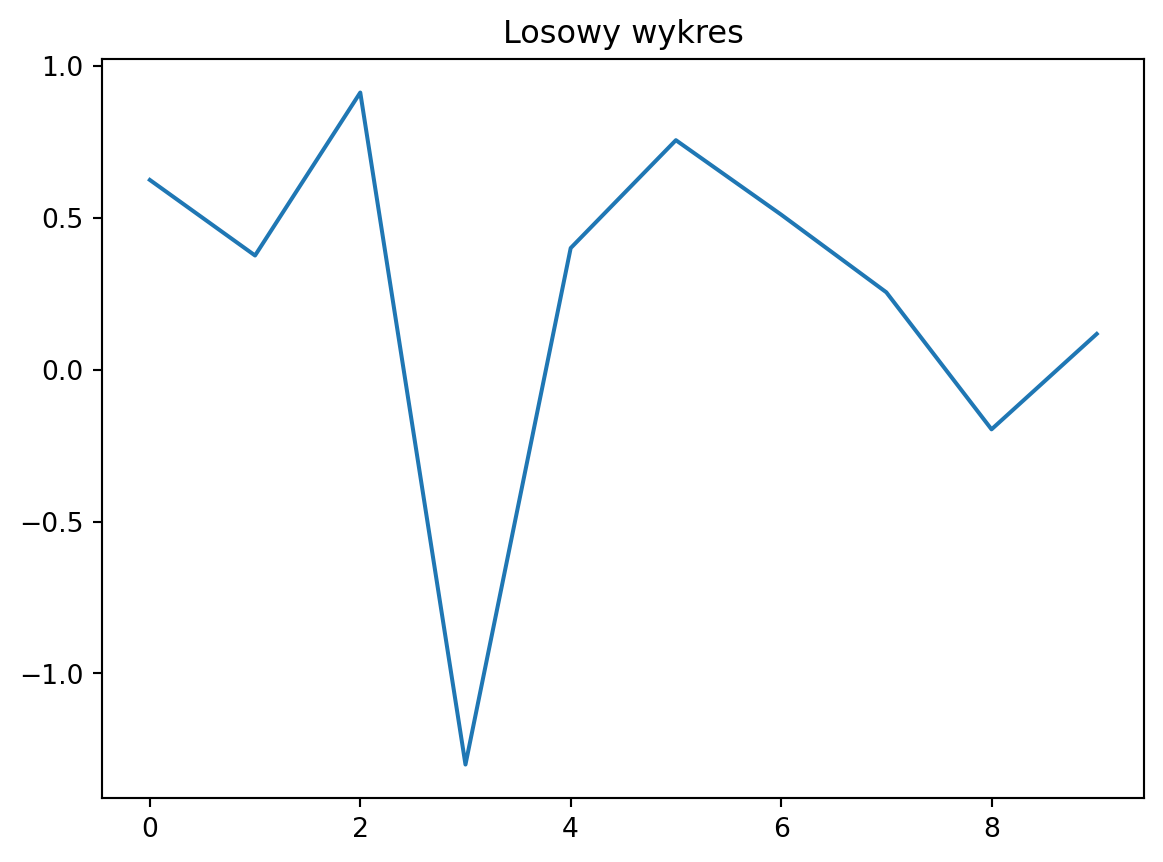
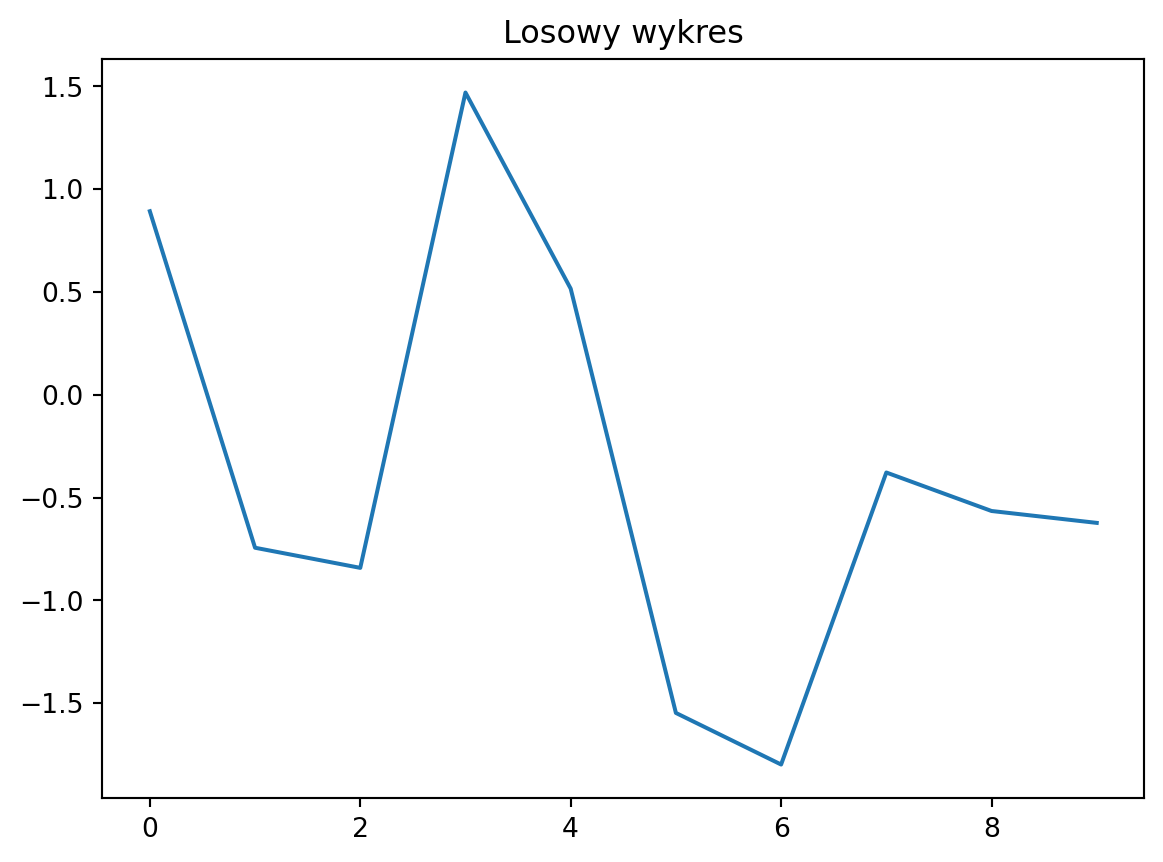
another update

diff --git a/docs/posts/python_w_analizie/python_w_analizie.html b/docs/posts/python_w_analizie/python_w_analizie.html
@@ -9,7 +9,7 @@
 <meta name="author" content="Tomasz Szczerbicki">
 <meta name="dcterms.date" content="2026-01-11">
 
-<title>Analiza danych w Pythonie – Tomasz Szczerbicki - analizy giełdowe</title>
+<title>Analiza danych w Pythonie 2 – Tomasz Szczerbicki - analizy giełdowe</title>
 <style>
 code{white-space: pre-wrap;}
 span.smallcaps{font-variant: small-caps;}
@@ -21,41 +21,6 @@ ul.task-list li input[type="checkbox"] {
   width: 0.8em;
   margin: 0 0.8em 0.2em -1em; /* quarto-specific, see https://github.com/quarto-dev/quarto-cli/issues/4556 */ 
   vertical-align: middle;
-}
-/* CSS for syntax highlighting */
-html { -webkit-text-size-adjust: 100%; }
-pre > code.sourceCode { white-space: pre; position: relative; }
-pre > code.sourceCode > span { display: inline-block; line-height: 1.25; }
-pre > code.sourceCode > span:empty { height: 1.2em; }
-.sourceCode { overflow: visible; }
-code.sourceCode > span { color: inherit; text-decoration: inherit; }
-div.sourceCode { margin: 1em 0; }
-pre.sourceCode { margin: 0; }
-@media screen {
-div.sourceCode { overflow: auto; }
-}
-@media print {
-pre > code.sourceCode { white-space: pre-wrap; }
-pre > code.sourceCode > span { text-indent: -5em; padding-left: 5em; }
-}
-pre.numberSource code
-  { counter-reset: source-line 0; }
-pre.numberSource code > span
-  { position: relative; left: -4em; counter-increment: source-line; }
-pre.numberSource code > span > a:first-child::before
-  { content: counter(source-line);
-    position: relative; left: -1em; text-align: right; vertical-align: baseline;
-    border: none; display: inline-block;
-    -webkit-touch-callout: none; -webkit-user-select: none;
-    -khtml-user-select: none; -moz-user-select: none;
-    -ms-user-select: none; user-select: none;
-    padding: 0 4px; width: 4em;
-  }
-pre.numberSource { margin-left: 3em;  padding-left: 4px; }
-div.sourceCode
-  {   }
-@media screen {
-pre > code.sourceCode > span > a:first-child::before { text-decoration: underline; }
 }
 </style>
 
@@ -166,7 +131,7 @@ pre > code.sourceCode > span > a:first-child::before { text-decoration: underlin
 <header id="title-block-header" class="quarto-title-block default page-columns page-full">
   <div class="quarto-title-banner page-columns page-full">
     <div class="quarto-title column-body">
-      <h1 class="title">Analiza danych w Pythonie</h1>
+      <h1 class="title">Analiza danych w Pythonie 2</h1>
                                 <div class="quarto-categories">
                 <div class="quarto-category">Python</div>
                 <div class="quarto-category">Data Science</div>
@@ -208,17 +173,8 @@ pre > code.sourceCode > span > a:first-child::before { text-decoration: underlin
 
 <section id="wprowadzenie" class="level2">
 <h2 class="anchored" data-anchor-id="wprowadzenie">Wprowadzenie</h2>
-<p>W tym poście pokażę, jak wygenerować dane w Pythonie i automatycznie przedstawić je na wykresie.</p>
-<div id="fb5d4cc7" class="cell" data-execution_count="1">
-<div class="code-copy-outer-scaffold"><div class="sourceCode cell-code" id="cb1"><pre class="sourceCode python code-with-copy"><code class="sourceCode python"><span id="cb1-1"><a href="#cb1-1" aria-hidden="true" tabindex="-1"></a><span class="im">import</span> pandas <span class="im">as</span> pd</span>
-<span id="cb1-2"><a href="#cb1-2" aria-hidden="true" tabindex="-1"></a><span class="im">import</span> numpy <span class="im">as</span> np</span>
-<span id="cb1-3"><a href="#cb1-3" aria-hidden="true" tabindex="-1"></a></span>
-<span id="cb1-4"><a href="#cb1-4" aria-hidden="true" tabindex="-1"></a>df <span class="op">=</span> pd.DataFrame({</span>
-<span id="cb1-5"><a href="#cb1-5" aria-hidden="true" tabindex="-1"></a>    <span class="st">"x"</span>: np.arange(<span class="dv">10</span>),</span>
-<span id="cb1-6"><a href="#cb1-6" aria-hidden="true" tabindex="-1"></a>    <span class="st">"y"</span>: np.random.randn(<span class="dv">10</span>)</span>
-<span id="cb1-7"><a href="#cb1-7" aria-hidden="true" tabindex="-1"></a>})</span>
-<span id="cb1-8"><a href="#cb1-8" aria-hidden="true" tabindex="-1"></a></span>
-<span id="cb1-9"><a href="#cb1-9" aria-hidden="true" tabindex="-1"></a>df</span></code></pre></div><button title="Copy to Clipboard" class="code-copy-button"><i class="bi"></i></button></div>
+<p>W tym poście pokażę, jak wygenerować dane w Pythonie i automatycznie przedstawić je na wykresie. Na koniec wygeneruję kilka standardowych kodów.</p>
+<div id="0da91583" class="cell" data-execution_count="1">
 <div class="cell-output cell-output-display" data-execution_count="1">
 <div>
 
@@ -235,52 +191,52 @@ pre > code.sourceCode > span > a:first-child::before { text-decoration: underlin
 <tr class="odd">
 <th data-quarto-table-cell-role="th">0</th>
 <td>0</td>
-<td>0.624522</td>
+<td>0.892368</td>
 </tr>
 <tr class="even">
 <th data-quarto-table-cell-role="th">1</th>
 <td>1</td>
-<td>0.375746</td>
+<td>-0.744140</td>
 </tr>
 <tr class="odd">
 <th data-quarto-table-cell-role="th">2</th>
 <td>2</td>
-<td>0.912210</td>
+<td>-0.842012</td>
 </tr>
 <tr class="even">
 <th data-quarto-table-cell-role="th">3</th>
 <td>3</td>
-<td>-1.299865</td>
+<td>1.469584</td>
 </tr>
 <tr class="odd">
 <th data-quarto-table-cell-role="th">4</th>
 <td>4</td>
-<td>0.400213</td>
+<td>0.515761</td>
 </tr>
 <tr class="even">
 <th data-quarto-table-cell-role="th">5</th>
 <td>5</td>
-<td>0.755351</td>
+<td>-1.547453</td>
 </tr>
 <tr class="odd">
 <th data-quarto-table-cell-role="th">6</th>
 <td>6</td>
-<td>0.510390</td>
+<td>-1.798429</td>
 </tr>
 <tr class="even">
 <th data-quarto-table-cell-role="th">7</th>
 <td>7</td>
-<td>0.254633</td>
+<td>-0.378272</td>
 </tr>
 <tr class="odd">
 <th data-quarto-table-cell-role="th">8</th>
 <td>8</td>
-<td>-0.196508</td>
+<td>-0.565432</td>
 </tr>
 <tr class="even">
 <th data-quarto-table-cell-role="th">9</th>
 <td>9</td>
-<td>0.117643</td>
+<td>-0.623275</td>
 </tr>
 </tbody>
 </table>
@@ -288,12 +244,7 @@ pre > code.sourceCode > span > a:first-child::before { text-decoration: underlin
 </div>
 </div>
 </div>
-<div id="76413547" class="cell" data-execution_count="2">
-<div class="code-copy-outer-scaffold"><div class="sourceCode cell-code" id="cb2"><pre class="sourceCode python code-with-copy"><code class="sourceCode python"><span id="cb2-1"><a href="#cb2-1" aria-hidden="true" tabindex="-1"></a><span class="im">import</span> matplotlib.pyplot <span class="im">as</span> plt</span>
-<span id="cb2-2"><a href="#cb2-2" aria-hidden="true" tabindex="-1"></a></span>
-<span id="cb2-3"><a href="#cb2-3" aria-hidden="true" tabindex="-1"></a>plt.plot(df[<span class="st">"x"</span>], df[<span class="st">"y"</span>])</span>
-<span id="cb2-4"><a href="#cb2-4" aria-hidden="true" tabindex="-1"></a>plt.title(<span class="st">"Losowy wykres"</span>)</span>
-<span id="cb2-5"><a href="#cb2-5" aria-hidden="true" tabindex="-1"></a>plt.show()</span></code></pre></div><button title="Copy to Clipboard" class="code-copy-button"><i class="bi"></i></button></div>
+<div id="e0fb85fa" class="cell" data-execution_count="2">
 <div class="cell-output cell-output-display">
 <div>
 <figure class="figure">
@@ -302,8 +253,7 @@ pre > code.sourceCode > span > a:first-child::before { text-decoration: underlin
 </div>
 </div>
 </div>
-<div id="8c965388" class="cell" data-execution_count="3">
-<div class="code-copy-outer-scaffold"><div class="sourceCode cell-code" id="cb3"><pre class="sourceCode python code-with-copy"><code class="sourceCode python"><span id="cb3-1"><a href="#cb3-1" aria-hidden="true" tabindex="-1"></a>df.describe()</span></code></pre></div><button title="Copy to Clipboard" class="code-copy-button"><i class="bi"></i></button></div>
+<div id="37ecea88" class="cell" data-execution_count="3">
 <div class="cell-output cell-output-display" data-execution_count="3">
 <div>
 
@@ -325,37 +275,37 @@ pre > code.sourceCode > span > a:first-child::before { text-decoration: underlin
 <tr class="even">
 <th data-quarto-table-cell-role="th">mean</th>
 <td>4.50000</td>
-<td>0.245434</td>
+<td>-0.362130</td>
 </tr>
 <tr class="odd">
 <th data-quarto-table-cell-role="th">std</th>
 <td>3.02765</td>
-<td>0.628855</td>
+<td>1.035674</td>
 </tr>
 <tr class="even">
 <th data-quarto-table-cell-role="th">min</th>
 <td>0.00000</td>
-<td>-1.299865</td>
+<td>-1.798429</td>
 </tr>
 <tr class="odd">
 <th data-quarto-table-cell-role="th">25%</th>
 <td>2.25000</td>
-<td>0.151890</td>
+<td>-0.817544</td>
 </tr>
 <tr class="even">
 <th data-quarto-table-cell-role="th">50%</th>
 <td>4.50000</td>
-<td>0.387980</td>
+<td>-0.594353</td>
 </tr>
 <tr class="odd">
 <th data-quarto-table-cell-role="th">75%</th>
 <td>6.75000</td>
-<td>0.595989</td>
+<td>0.292253</td>
 </tr>
 <tr class="even">
 <th data-quarto-table-cell-role="th">max</th>
 <td>9.00000</td>
-<td>0.912210</td>
+<td>1.469584</td>
 </tr>
 </tbody>
 </table>

diff --git a/docs/index.html b/docs/index.html
@@ -218,7 +218,7 @@ window.Quarto = {
 
 <div class="quarto-listing quarto-listing-container-default" id="listing-listing">
 <div class="list quarto-listing-default">
-<div class="quarto-post image-right" data-index="0" data-categories="UHl0aG9uJTJDRGF0YSUyMFNjaWVuY2U=" data-listing-date-sort="1768086000000" data-listing-file-modified-sort="1768126366440" data-listing-date-modified-sort="NaN" data-listing-reading-time-sort="1" data-listing-word-count-sort="46">
+<div class="quarto-post image-right" data-index="0" data-categories="UHl0aG9uJTJDRGF0YSUyMFNjaWVuY2U=" data-listing-date-sort="1768086000000" data-listing-file-modified-sort="1768126755056" data-listing-date-modified-sort="NaN" data-listing-reading-time-sort="1" data-listing-word-count-sort="46">
 <div class="thumbnail"><a href="./posts/python_w_analizie/python_w_analizie.html" class="no-external">
 
 <p class="card-img-top"><img src="posts/python_w_analizie/python_w_analizie_files/figure-html/cell-3-output-1.png"  class="thumbnail-image card-img"/></p>
@@ -236,7 +236,7 @@ window.Quarto = {
 
 </div>
 <div class="delink listing-description"><a href="./posts/python_w_analizie/python_w_analizie.html" class="no-external">
-W tym poście pokażę, jak wygenerować dane w Pythonie i automatycznie przedstawić je na wykresie.
+W tym poście pokażę, jak wygenerować dane w Pythonie i automatycznie przedstawić je na wykresie. Na koniec wygeneruję kilka standardowych kodów.
 </a></div>
 </div>
 <div class="metadata">
